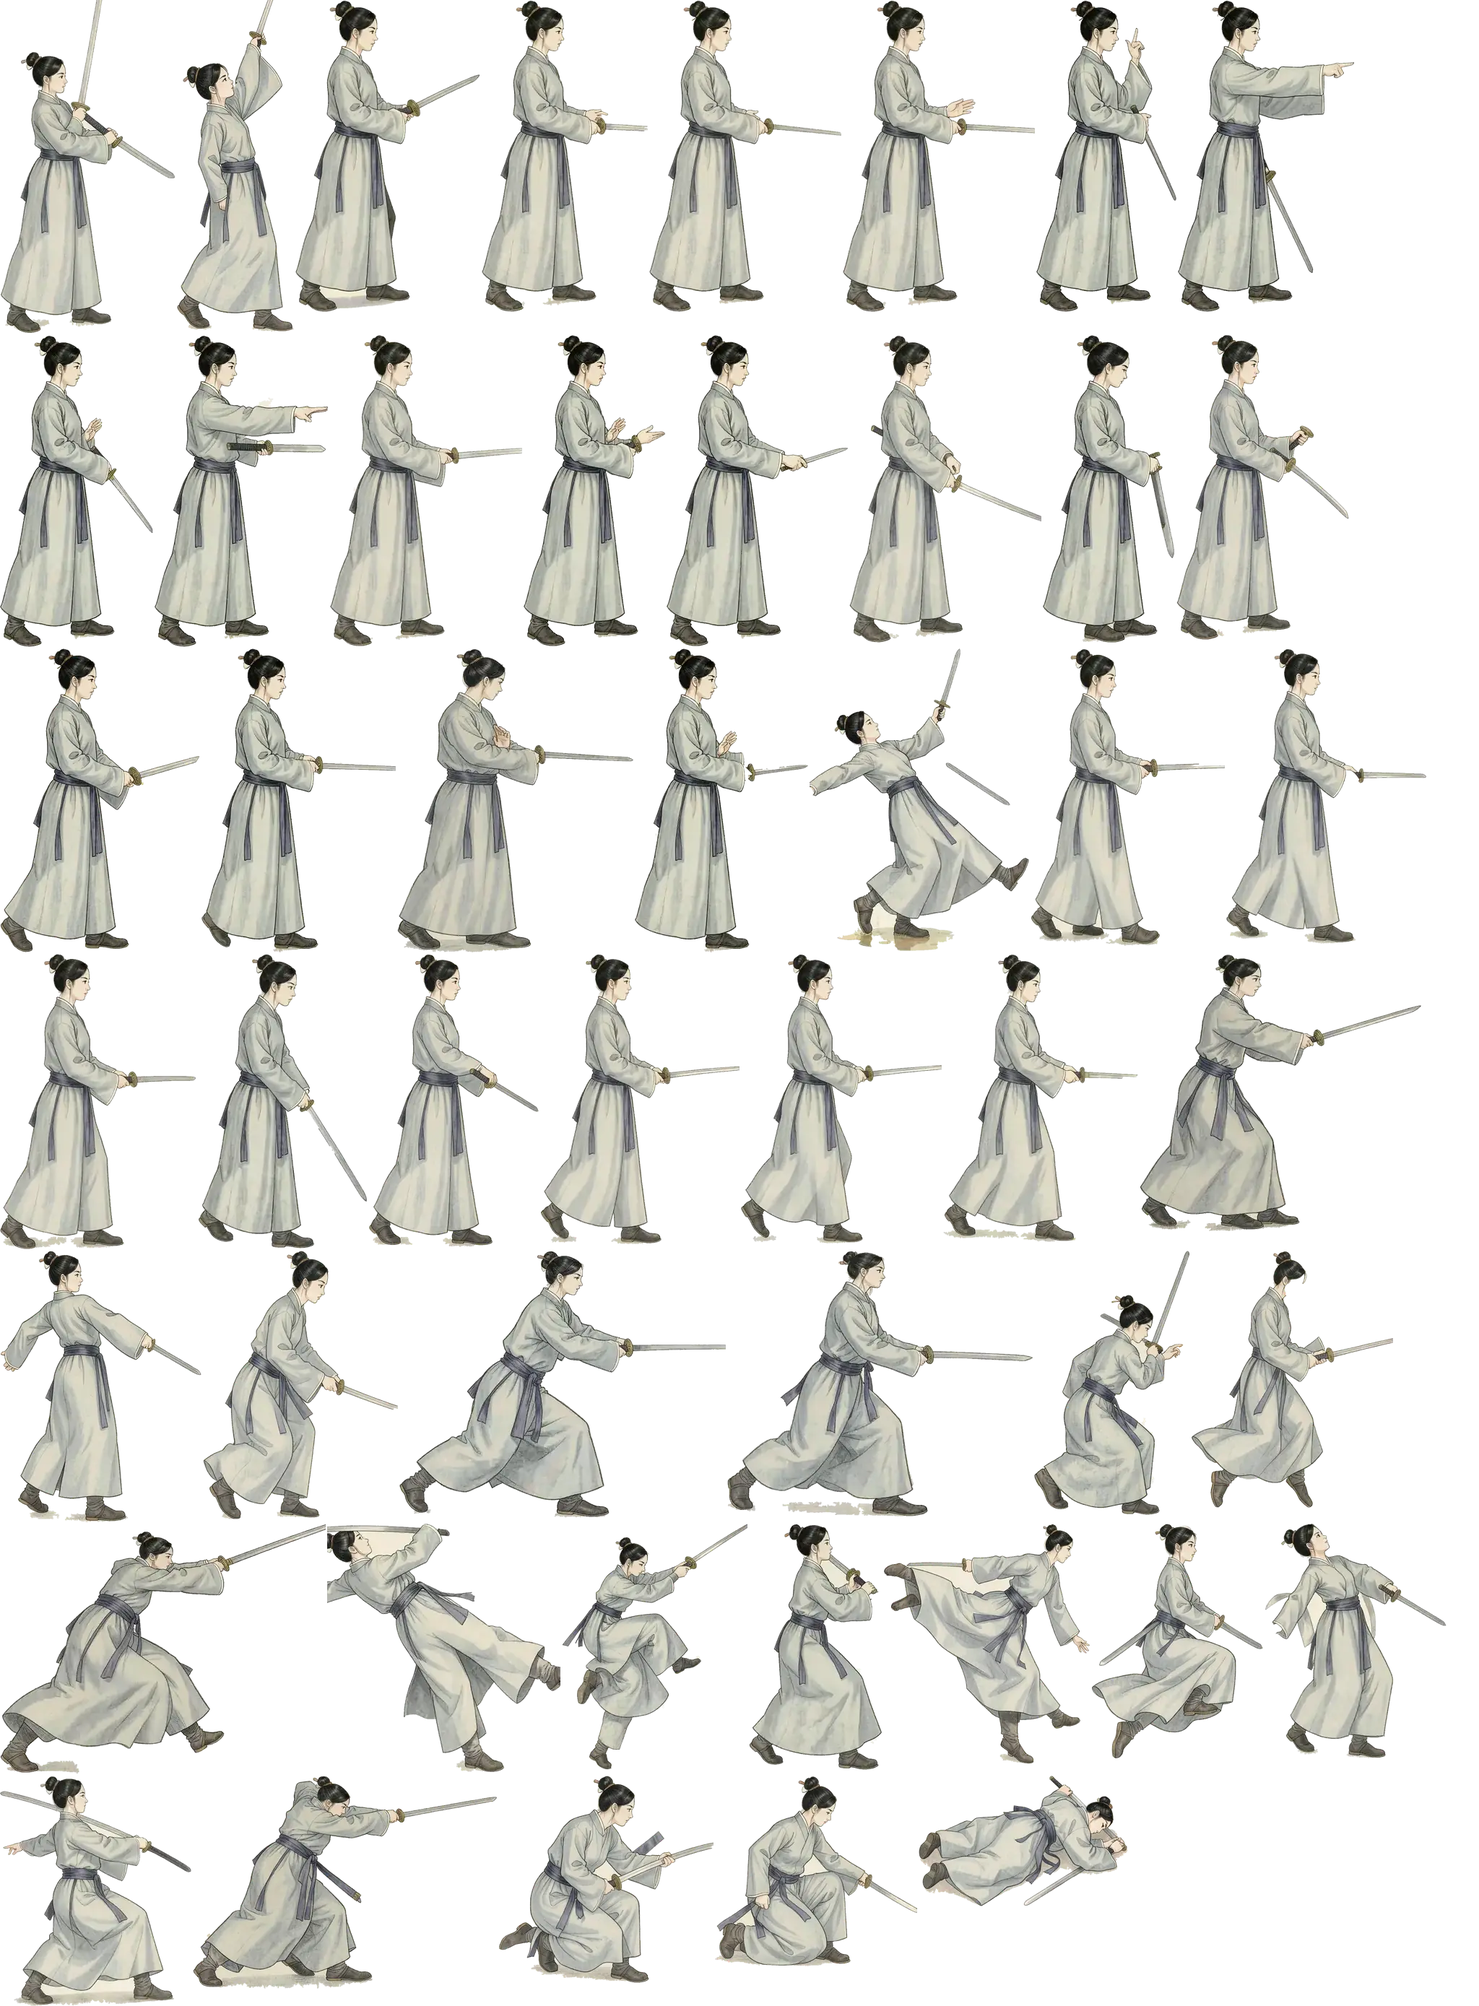
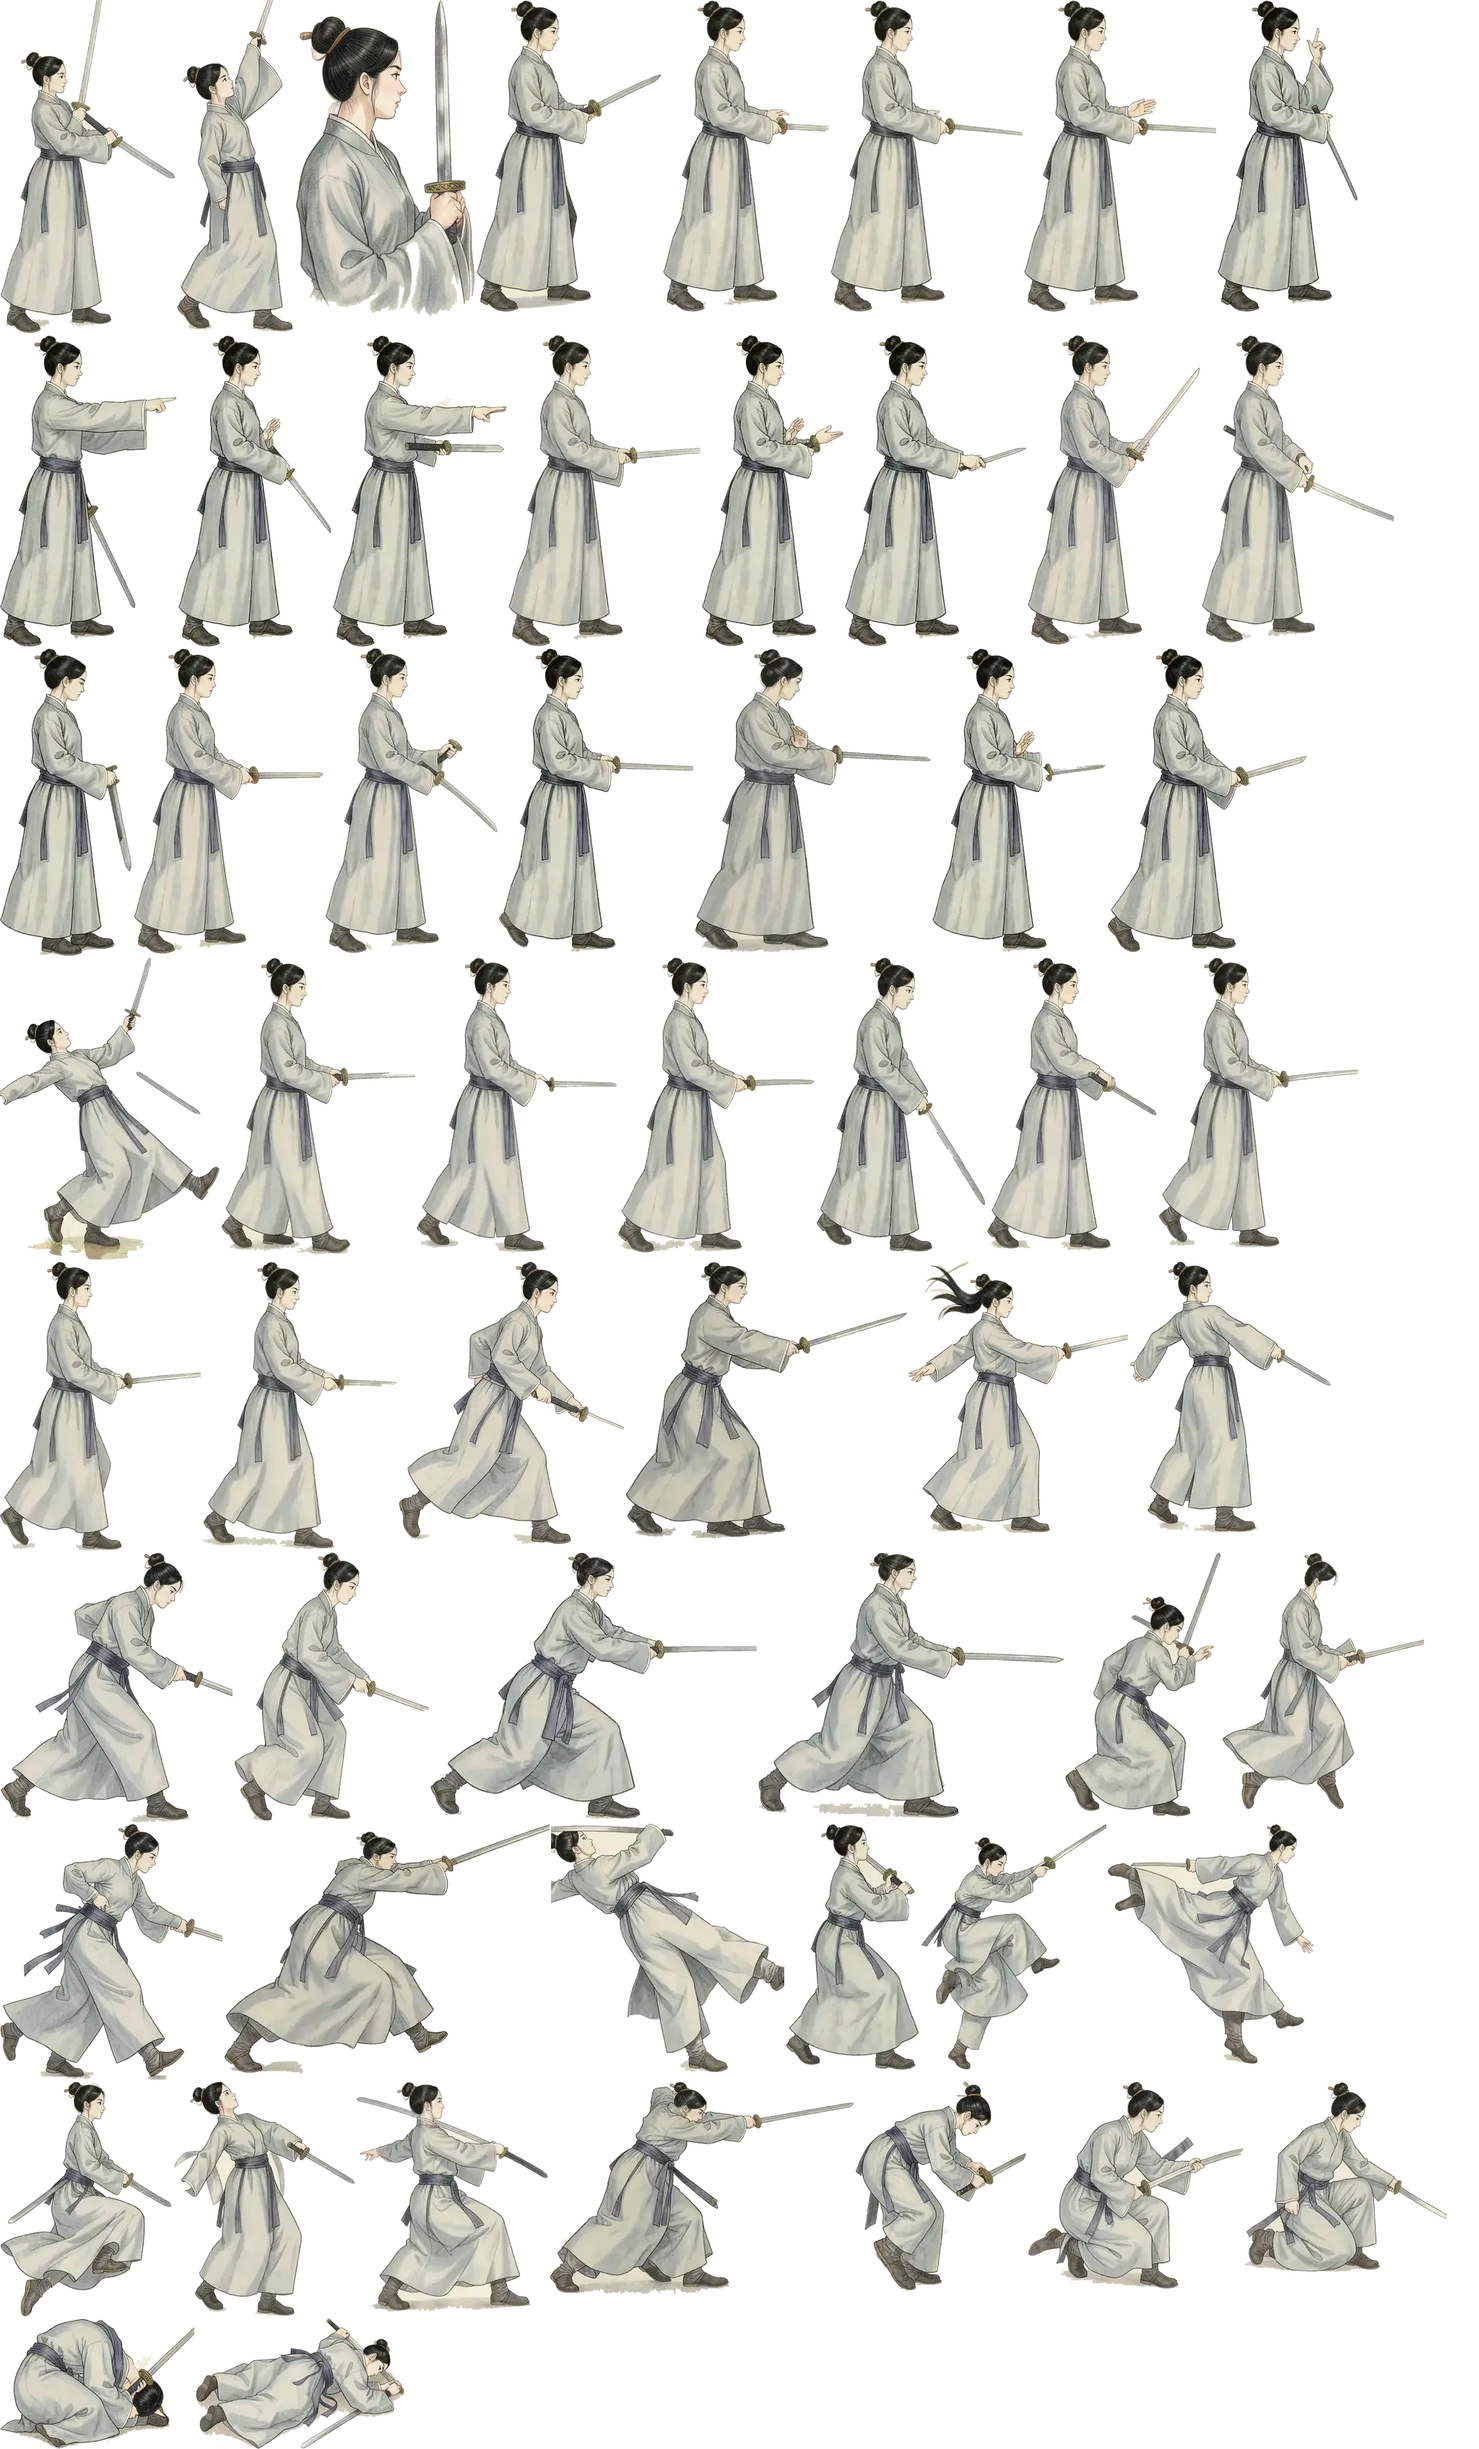
格斗's two gap sheets complete: 秦雁 run · roll · 震 · cutin, 沈小满 backdash · throw · dash · 掌 · 旋踢 · 绝 · cutin, all local FLUX (tools/fighter-frames.py build, the kept seeds in fighter-poses.json)
- 秦雁 57 frames (was 48, every clip in fighter-poses.json now on the sheet): run1-3, roll1-2, zhen1-3, cutin. Her roll ends on
  her own getup1 (rising onto one knee is that painting); roll3 is gone from the poses, its four seeds all drew a second
  blade or a second head. run1-3 scaled up (fix.s 1.12/1.12/1.05) to her shipped idle.
- 沈小满 68 frames (was 50): backdash1-3, dash2-3, cast3-4, super3-5, spin1-4, throw1-3, cutin. spin4 is super5's painting
  (the same guard, the same pose numbers); spin1's words now ask for no raised leg (both of its first seeds kicked).
- His throw (Hanli liked GPT's 3-frame concept, but it drew a grown woman): each of its panels flattened to a dark
  silhouette and given to the FLUX edit as the pose guide in place of the stick sketch, with his portrait as the
  person: reach with both hands, yank down, fling forward. The words now say that throw — the foe lands in front of
  him (core.js throwFoe pushes her away), not over behind. Hands placed by eye (points). No GPT picture spent.
- doc/games.md: the sheets' frame counts.

diff --git a/lingjing/doc/games.md b/lingjing/doc/games.md
@@ -404,7 +404,7 @@ Hanli 10-26: 「你发明的不太行, 用现有的应该都可以」 → 「街
   Frames by what the board plays: his KOF set (idle, walk ↔ back, crouch, jump, the four normals standing and crouching, block,
   hit, knockdown/get-up, 掌心火, 升勾, the 绝, roll, dash, win, lose); hers by her moves (guard, walk, 点剑, 长刺, 冰, the edge's
   point, the palm's glow · hold · strike, block, hit, 剑气三尺, the slip off the oil, win, lose) — she never throws K/L/O/;.
-  沈小满 44 frames (612 KB), 秦雁 33 (424 KB): ~1 MB for both, one webp sheet each (2048 px wide), figures ~430 px tall · preview: scripts/fighter-preview.html?dev=1&who=qinyan|xiaoman.
+  沈小满 68 frames (826 KB), 秦雁 57 (604 KB): ~1.4 MB for both, one webp sheet each (2048 px wide), figures ~430 px tall · preview: scripts/fighter-preview.html?dev=1&who=qinyan|xiaoman.
 - **Bot** (200 ms, chains, 技 and 绝 as the phone's buttons): wins 8/8 seeds in 41–65 s; 320 ms 8/8; masher, wall of blocks, idle lose.
 - **Skipped**: a mount-only board's skip shows the page's 「没走完，往下走了。」, as every board's; `won.skipped` kept in the level.
 - **v5 (10-31)** — the story's fights (Hanli 10-28: 「故事里的战斗可以用格斗」): every 古六 大比 bout a 格斗 board (design.md § 格斗 in
